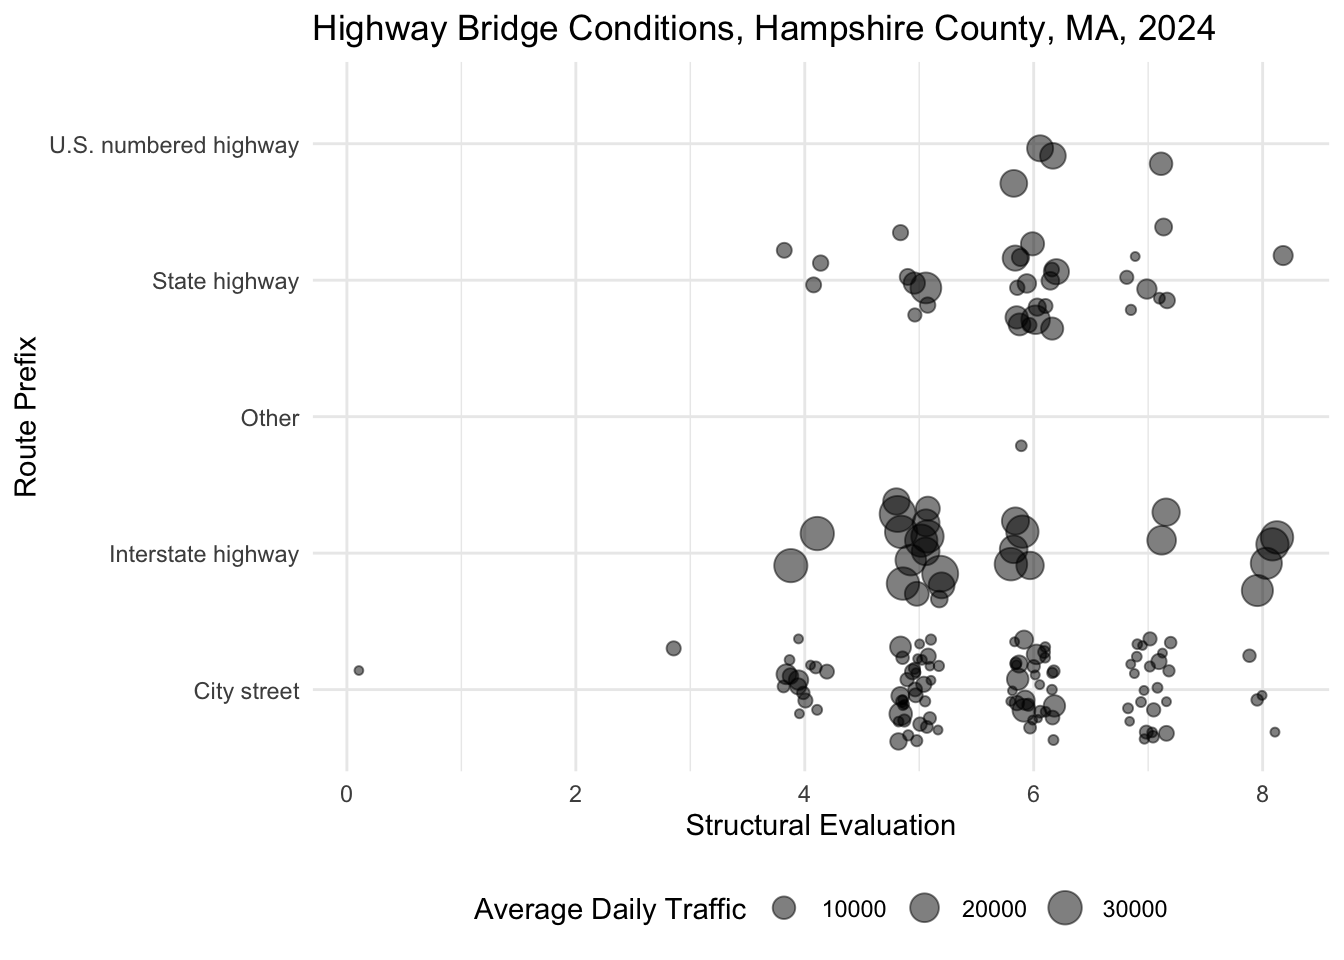
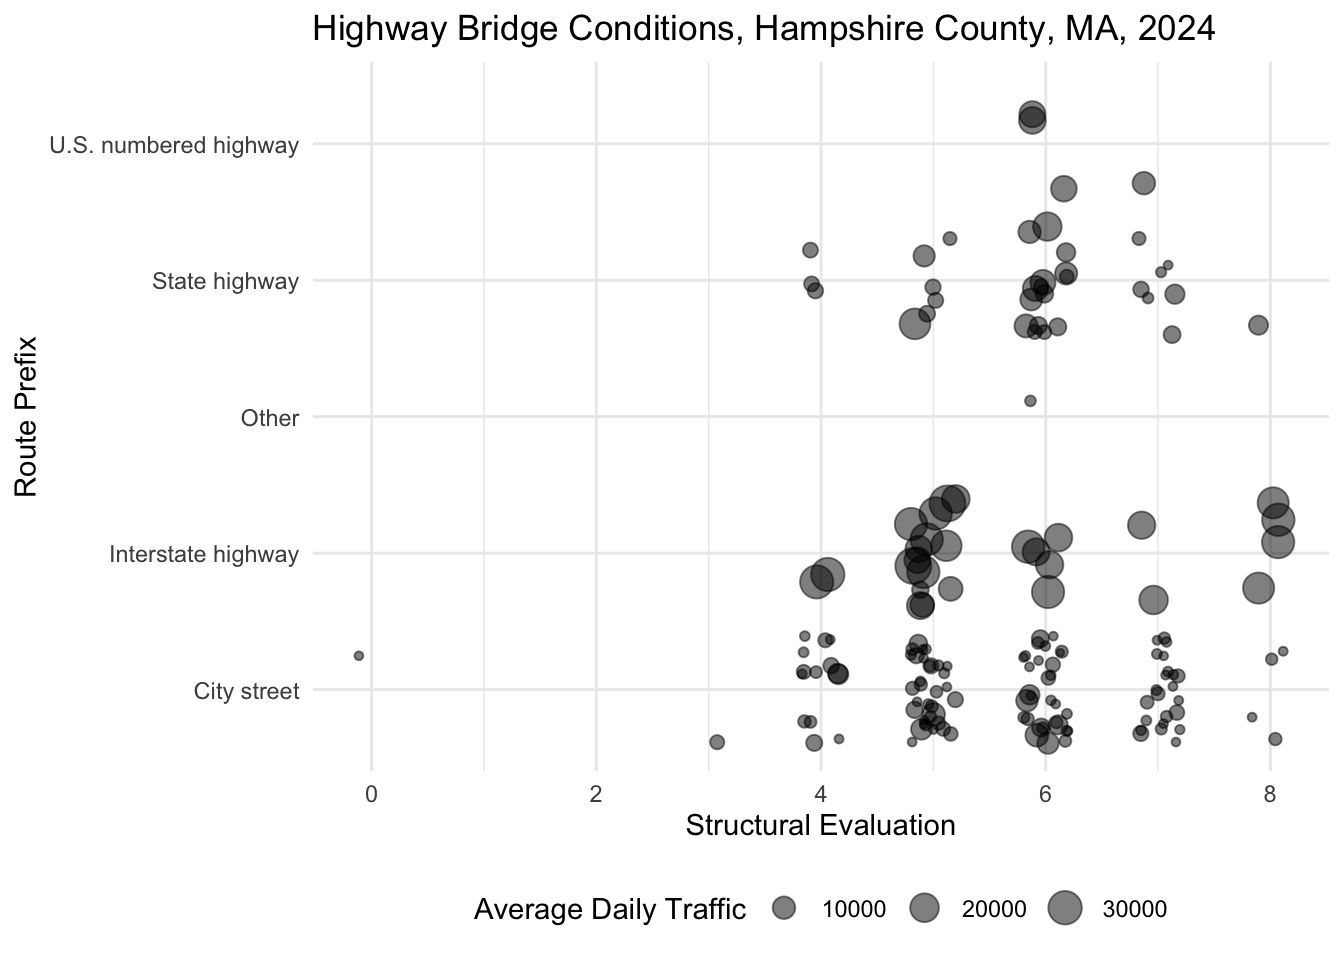
fixed instructions for ex 1 lab 2

diff --git a/docs/labs/lab2.html b/docs/labs/lab2.html
@@ -445,11 +445,11 @@ Tip
 <section id="overplotting" class="level4">
 <h4 class="anchored" data-anchor-id="overplotting">Overplotting</h4>
 <p>You’ll notice that parts of this plot can be challenging to read because some points overlap each other making it hard to distinguish one from the next. This is an example of overplotting, and there are a number of strategies we can take to addressing it. Most of these strategies involve revising <em>attributes</em> of the points on the plot (e.g.&nbsp;the size, transparency, and position of the points).</p>
-<p>Note that attributes are different than aesthetics. Recall that when we assign aesthetics in a plot, we are adjusting the visual cues on a plot according to the values in a variable. The visual cues will be different based on the values in that variable (e.g.&nbsp;size will be greater with greater values). On the other hand, when we adjust attributes, we are adjusting the visual cues on a plot in a fixed way (i.e.&nbsp;every point will be styled in the same way regardless of its value). Because of this attributes are assigned <strong>outside</strong> of the <code>aes()</code> (aesthetic) function. Let’s adjust the plot we created above by reducing the size of every point (<code>size =</code>), reducing the transparency of every point (<code>alpha =</code>). Recall that alpha is assigned between 0 and 1: 0 being transparent and 1 being opaque. We will also jitter the points. and adding <code>"jitter"</code> to the plot (<code>position=</code>). Jitter means that we add a bit of random noise to the points on the plot in order to prevent overlapping points.</p>
+<p>Note that attributes are different than aesthetics. Recall that when we assign aesthetics in a plot, we are adjusting the visual cues on a plot according to the values in a variable. The visual cues will be different based on the values in that variable (e.g.&nbsp;size will be greater with greater values). On the other hand, when we adjust attributes, we are adjusting the visual cues on a plot in a fixed way (i.e.&nbsp;every point will be styled in the same way regardless of its value). Because of this attributes are assigned <strong>outside</strong> of the <code>aes()</code> (aesthetic) function. Let’s adjust the plot we created above by reducing the size of every point (<code>size =</code>), reducing the transparency of every point (<code>alpha =</code>). Recall that alpha is assigned between 0 and 1: 0 being transparent and 1 being opaque. We will also jitter the points. Jitter means that we add a bit of random noise to the points on the plot in order to prevent overlapping points.</p>
 <section id="question" class="level6">
 <h6 class="anchored" data-anchor-id="question">Question</h6>
 <div class="question">
-<p>In the code below, change <code>geom_point()</code> to <code>geom_jitter()</code>. Adjust the size to <code>2</code>, the alpha to <code>0.5</code>, and set the height of the jitter to <code>0.2</code>. If successful, your plot should look like mine below.</p>
+<p>In the code below, change <code>geom_point()</code> to <code>geom_jitter()</code>. Adjust the size to <code>2</code>, the alpha to <code>0.5</code>, and set the height of the jitter to <code>0.2</code>. Remove the <code>position</code> attribute. If successful, your plot should look like mine below.</p>
 </div>
 <div class="cell">
 <div class="sourceCode cell-code" id="cb3"><pre class="sourceCode r code-with-copy"><code class="sourceCode r"><span id="cb3-1"><a href="#cb3-1" aria-hidden="true" tabindex="-1"></a>nbi_hampshire <span class="sc">|&gt;</span></span>
